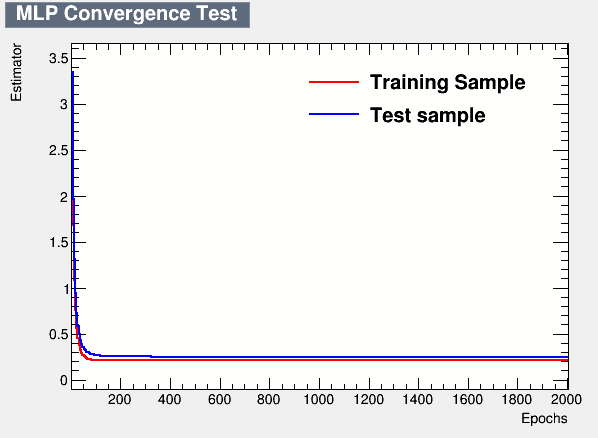
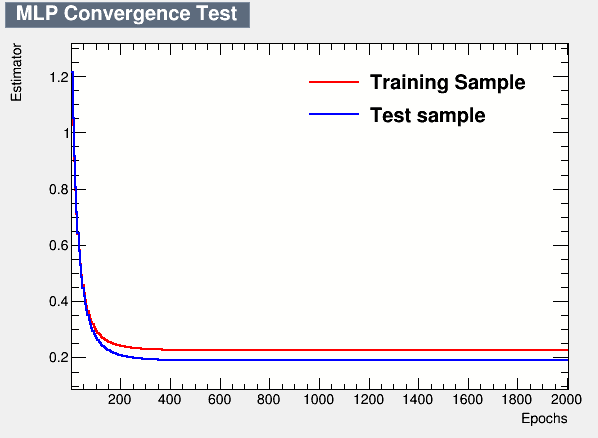
setup

diff --git a/src/mlp_analysis.cpp b/src/mlp_analysis.cpp
@@ -104,36 +104,45 @@ TTree* MLPAnalysis::evaluate_MLP(DataChain* bg_chain, std::vector<Variable*>* va
 		   Float_t jet1metnomu_scalarprod;
 		   Float_t jet2metnomu_scalarprod;
 
+     reader->AddVariable("dijetmetnomu_ptfraction", &dijetmetnomu_ptfraction);
+     reader->AddVariable("dijetmetnomu_vectorialSum_pt", &dijetmetnomu_vectorialSum_pt);
+     reader->AddVariable("jet_csv2", &jet_csv2);
+     reader->AddVariable("dijet_dphi", &metnomu_significance);
+     reader->AddVariable("dijet_M", &dijet_M);
+
+/*
+
 		   reader->AddVariable("alljetsmetnomu_mindphi", &alljetsmetnomu_mindphi);
-		   /*reader->AddVariable("forward_tag_eta", &forward_tag_eta);
-		   reader->AddVariable("dijet_deta", &dijet_deta);*/
+		   reader->AddVariable("forward_tag_eta", &forward_tag_eta);
+		   reader->AddVariable("dijet_deta", &dijet_deta);
 		   reader->AddVariable("metnomu_significance", &metnomu_significance);
 		   //reader->AddVariable("sqrt_ht", &sqrt_ht);
 		   //reader->AddVariable("dijet_M", &dijet_M);
 		   reader->AddVariable("metnomuons", &metnomuons);
 
-		   /*reader->AddVariable("jet1_pt", &jet1_pt);
+		   reader->AddVariable("jet1_pt", &jet1_pt);
 		   reader->AddVariable("jet2_pt", &jet2_pt);
 
 		   reader->AddVariable("jet1_eta", &jet1_eta);
 		   reader->AddVariable("jet2_eta", &jet2_eta);
 		   reader->AddVariable("jet1_phi", &jet1_phi);
 		   reader->AddVariable("jet2_phi", &jet2_phi);
-		   reader->AddVariable("jet_csv1", &jet_csv1);*/
+		   reader->AddVariable("jet_csv1", &jet_csv1);
 		   reader->AddVariable("jet_csv2", &jet_csv2);
 		   reader->AddVariable("dijet_dphi", &dijet_dphi);
-		   /*reader->AddVariable("metnomu_x", &metnomu_x);
+		   reader->AddVariable("metnomu_x", &metnomu_x);
 		   reader->AddVariable("metnomu_y", &metnomu_y);
 		   reader->AddVariable("sumet", &sumet);
 		   reader->AddVariable("mht", &mht);
-		   reader->AddVariable("unclustered_et", &unclustered_et);*/
+		   reader->AddVariable("unclustered_et", &unclustered_et);
 		   reader->AddVariable("jetmetnomu_mindphi", &jetmetnomu_mindphi);
-		   /*reader->AddVariable("jetunclet_mindphi", &jetunclet_mindphi);
-		   reader->AddVariable("metnomuunclet_dphi", &metnomuunclet_dphi);*/
+		   reader->AddVariable("jetunclet_mindphi", &jetunclet_mindphi);
+		   reader->AddVariable("metnomuunclet_dphi", &metnomuunclet_dphi);
 		   //reader->AddVariable("dijetmetnomu_vectorialSum_pt", &dijetmetnomu_vectorialSum_pt);
 		   reader->AddVariable("dijetmetnomu_ptfraction", &dijetmetnomu_ptfraction);
 		   //reader->AddVariable("jet1metnomu_scalarprod", &jet1metnomu_scalarprod);
 		   //reader->AddVariable("jet2metnomu_scalarprod", &jet2metnomu_scalarprod);
+	*/
 
 		   std::string weight_file_path = "weights/TMVAClassification" + job_name + "_MLP.weights.xml";
 
@@ -146,7 +155,7 @@ TTree* MLPAnalysis::evaluate_MLP(DataChain* bg_chain, std::vector<Variable*>* va
 	   	   TChain* data = (TChain*) bg_chain->chain->Clone();
 
 	   	   data->SetBranchAddress("dijet_deta", &dijet_deta);
-	   	   /*data->SetBranchAddress("forward_tag_eta", &forward_tag_eta);
+	   	   data->SetBranchAddress("forward_tag_eta", &forward_tag_eta);
 	   	   data->SetBranchAddress("metnomu_significance", &metnomu_significance);
 	   	   data->SetBranchAddress("sqrt_ht", &sqrt_ht);
 	   	   data->SetBranchAddress("alljetsmetnomu_mindphi", &alljetsmetnomu_mindphi);
@@ -160,20 +169,20 @@ TTree* MLPAnalysis::evaluate_MLP(DataChain* bg_chain, std::vector<Variable*>* va
 	   	   data->SetBranchAddress("jet1_phi", &jet1_phi);
 	   	   data->SetBranchAddress("jet2_phi", &jet2_phi);
 	   	   data->SetBranchAddress("jet_csv1", &jet_csv1);
-	   	   data->SetBranchAddress("jet_csv2", &jet_csv2);*/
+	   	   data->SetBranchAddress("jet_csv2", &jet_csv2);
 	   	   data->SetBranchAddress("dijet_dphi", &dijet_dphi);
-	   	   /*data->SetBranchAddress("metnomu_x", &metnomu_x);
+	   	   data->SetBranchAddress("metnomu_x", &metnomu_x);
 	   	   data->SetBranchAddress("metnomu_y", &metnomu_y);
 	   	   data->SetBranchAddress("sumet", &sumet);
 	   	   data->SetBranchAddress("mht", &mht);
 	   	   data->SetBranchAddress("unclustered_et", &unclustered_et);
-	   	   */data->SetBranchAddress("jetmetnomu_mindphi", &jetmetnomu_mindphi);/*
+	   	   data->SetBranchAddress("jetmetnomu_mindphi", &jetmetnomu_mindphi);
 	   	   data->SetBranchAddress("jetunclet_mindphi", &jetunclet_mindphi);
-	   	   data->SetBranchAddress("metnomuunclet_dphi", &metnomuunclet_dphi);*/
+	   	   data->SetBranchAddress("metnomuunclet_dphi", &metnomuunclet_dphi);
 	   	   data->SetBranchAddress("dijetmetnomu_vectorialSum_pt", &dijetmetnomu_vectorialSum_pt);
 	   	   data->SetBranchAddress("dijetmetnomu_ptfraction", &dijetmetnomu_ptfraction);
-	   	   //data->SetBranchAddress("jet1metnomu_scalarprod", &jet1metnomu_scalarprod);
-	   	   //data->SetBranchAddress("jet2metnomu_scalarprod", &jet2metnomu_scalarprod);
+	   	   data->SetBranchAddress("jet1metnomu_scalarprod", &jet1metnomu_scalarprod);
+	   	   data->SetBranchAddress("jet2metnomu_scalarprod", &jet2metnomu_scalarprod);
 
 	   	   // Efficiency calculator for cut method
 	   	   Int_t    nSelCutsGA = 0;
@@ -284,7 +293,7 @@ std::string MLPAnalysis::MLP_options_str(const char* NeuronType, const char* NCy
 	std::string lr = LearningRate;
 
 	MLP_options.append(nt);
-	MLP_options += ":VarTransform=N:NCycles=";
+	MLP_options += ":VarTransform=P,N:NCycles=";
 	MLP_options.append(nc);
 	MLP_options += ":HiddenLayers=";
 	MLP_options.append(hl);

diff --git a/src/super_vars.cpp b/src/super_vars.cpp
@@ -40,12 +40,16 @@ SuperVars::SuperVars()
 std::vector<Variable*> SuperVars::get_discriminating_vars()
 {
   Variable* var_arr[] = {
-                          alljetsmetnomu_mindphi, /*forward_tag_eta, dijet_deta,*/ metnomu_significance,/*
-  		  	                   sqrt_ht, dijet_M,*/ metnomuons ,/*jet1_pt,jet2_pt, jet1_eta,jet2_eta, jet1_phi,jet2_phi,
-																										jet_csv1,*/jet_csv2,dijet_dphi,/*metnomu_x,metnomu_y,sumet,mht,unclustered_et,*/
-  		                      jetmetnomu_mindphi,/*jetunclet_mindphi,metnomuunclet_dphi,dijetmetnomu_vectorialSum_pt,*/
-																										dijetmetnomu_ptfraction/*, jet1metnomu_scalarprod,jet2metnomu_scalarprod*/
-  	                     };
+                          dijetmetnomu_ptfraction, dijetmetnomu_vectorialSum_pt, jet_csv2, 
+                          dijet_dphi, dijet_M
+                        /*
+			                       alljetsmetnomu_mindphi, forward_tag_eta, dijet_deta, metnomu_significance,
+  		  	                   sqrt_ht, dijet_M, metnomuons ,jet1_pt,jet2_pt, jet1_eta,jet2_eta, jet1_phi,jet2_phi,
+																										jet_csv1,jet_csv2,dijet_dphi,metnomu_x,metnomu_y,sumet,mht,unclustered_et,
+  		                      jetmetnomu_mindphi,jetunclet_mindphi,metnomuunclet_dphi,dijetmetnomu_vectorialSum_pt,
+																										dijetmetnomu_ptfraction, jet1metnomu_scalarprod,jet2metnomu_scalarprod
+  	                     */
+																								};
 
   std::vector<Variable*> vars (var_arr, var_arr + sizeof(var_arr) / sizeof(var_arr[0]));
 

diff --git a/src/mva_analysis.cpp b/src/mva_analysis.cpp
@@ -131,11 +131,18 @@ void MVAAnalysis::create_datacards(DataChain* output_data_chain, DataChain* outp
 	}
 	else
 	{
-			std::string cut_arr[] = {"output>-1.5", "output>-1.4", "output>-1.3", "output>-1.2", "output>-1.1", "output>-1.0", "output>-0.8",
+			std::string cut_arr[] = {"output<1.0", "output<0.99", "output<0.98", "output<0.97", "output<0.96",
+																												"output<0.95", "output<0.94", "output<0.93", "output<0.92", "output<0.91",
+                            "output<0.9", "output<0.89", "output<0.88", "output<0.87", "output<0.86",
+                            "output<0.85", "output<0.84", "output<0.83", "output<0.82", "output<0.81",
+                            "output<0.8"};
+
+
+/*{"output>-1.5", "output>-1.4", "output>-1.3", "output>-1.2", "output>-1.1", "output>-1.0", "output>-0.8",
 																												"output>-0.7", "output>-0.6", "output>-0.5", "output>-0.4", "output>-0.3", "output>-0.2",
 																												"output>-0.1", "output>0.0", "output>0.1", "output>0.2", "output>0.3", "output>0.4", "output>0.5",
 																												"output>0.6","output>0.7", "output>0.8", "output>0.9", "output>1.0", "output>1.1"};
-
+*/
 			for (int i = 0; i < sizeof(cut_arr)/sizeof(cut_arr[0]); i++)
 			{
 					std::string output_graph_name = build_output_graph_name(trained_output, cut_arr[i]);

diff --git a/src/main.cpp b/src/main.cpp
@@ -22,7 +22,7 @@ void produce_graphs(bool with_cut) {
   // boolean is for whether or not to create separate output app files
   bool unique_output_files = true;
   // boolean is for whether or not to create datacards
-  bool create_cards = false;
+  bool create_cards = true;
   std::string job_name = "4";
   std::string mva_cut = "";
   std::string method_name = "MLP";
@@ -45,7 +45,7 @@ void produce_graphs(bool with_cut) {
   			 std::vector<const char*> NeuronType2 (NeuronType2_arr, NeuronType2_arr +
   			                                  sizeof(NeuronType2_arr)/sizeof(const char*));*/
 
-MVAAnalysis::get_mva_results(bg_chains, 6, signal_chain, data_chain, super_vars, "test", method_name, NTrees[0],BoostType[0], AdaBoostBeta[0], SeparationType[0], nCuts[0], NeuronType[2], NCycles[1], HiddenLayers[0], LearningRate[0],unique_output_files, create_cards, job_name, mva_cut);
+MVAAnalysis::get_mva_results(bg_chains, 0, signal_chain, data_chain, super_vars, "test", method_name, NTrees[0],BoostType[0], AdaBoostBeta[0], SeparationType[0], nCuts[0], NeuronType[2], NCycles[1], HiddenLayers[0], LearningRate[0],unique_output_files, create_cards, job_name, mva_cut);
 /*  		}
   }*/
 

diff --git a/src/analysis.cpp b/src/analysis.cpp
@@ -317,11 +317,11 @@ const char* data_legend = "data";
   std::vector<const char*> NeuronType (NeuronType_arr, NeuronType_arr +
                                      sizeof(NeuronType_arr)/sizeof(const char*));
 
-  const char* NCycles_arr[] = {"2000", "5000", "50", "100"};
+  const char* NCycles_arr[] = {"2000", "2000", "5000", "50", "100"};
   std::vector<const char*> NCycles (NCycles_arr, NCycles_arr +
                                        sizeof(NCycles_arr)/sizeof(const char*));
 
-  const char* HiddenLayers_arr[] = {"2,4,8","2,2,2,2","2,4,4","2,4,4,8","2,2,2,2,2"}/*, "50", "100", "10,10","10,10,10",
+  const char* HiddenLayers_arr[] = {"5,5,5", "2,4,8","2,2,2,2","2,4,4","2,4,4,8","2,2,2,2,2"}/*, "50", "100", "10,10","10,10,10",
   																																		"10,10,10,10", "10,10,10,10,10", "30", "50", "100"} */;//number of neurons in each hidden layer
   std::vector<const char*> HiddenLayers (HiddenLayers_arr, HiddenLayers_arr +
                                          sizeof(HiddenLayers_arr)/sizeof(const char*));
